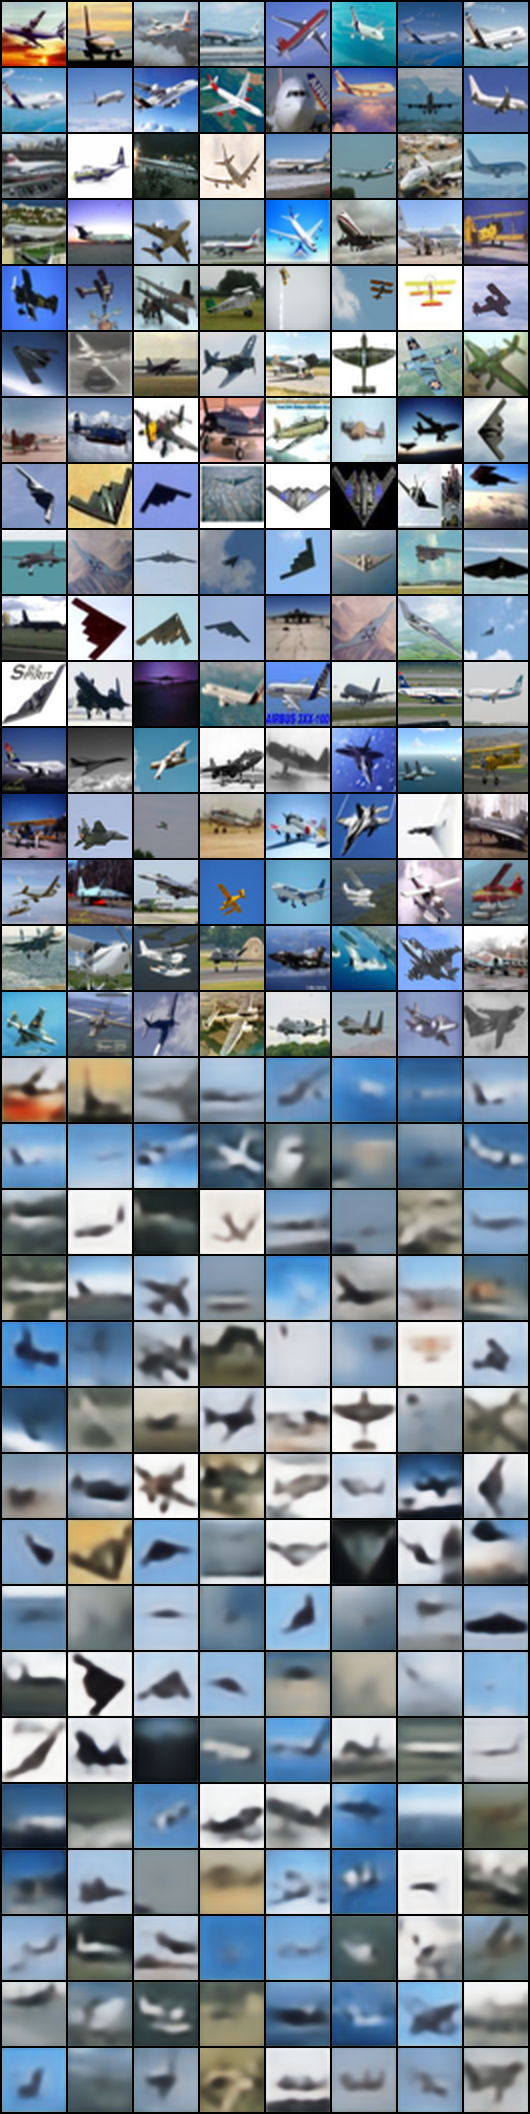
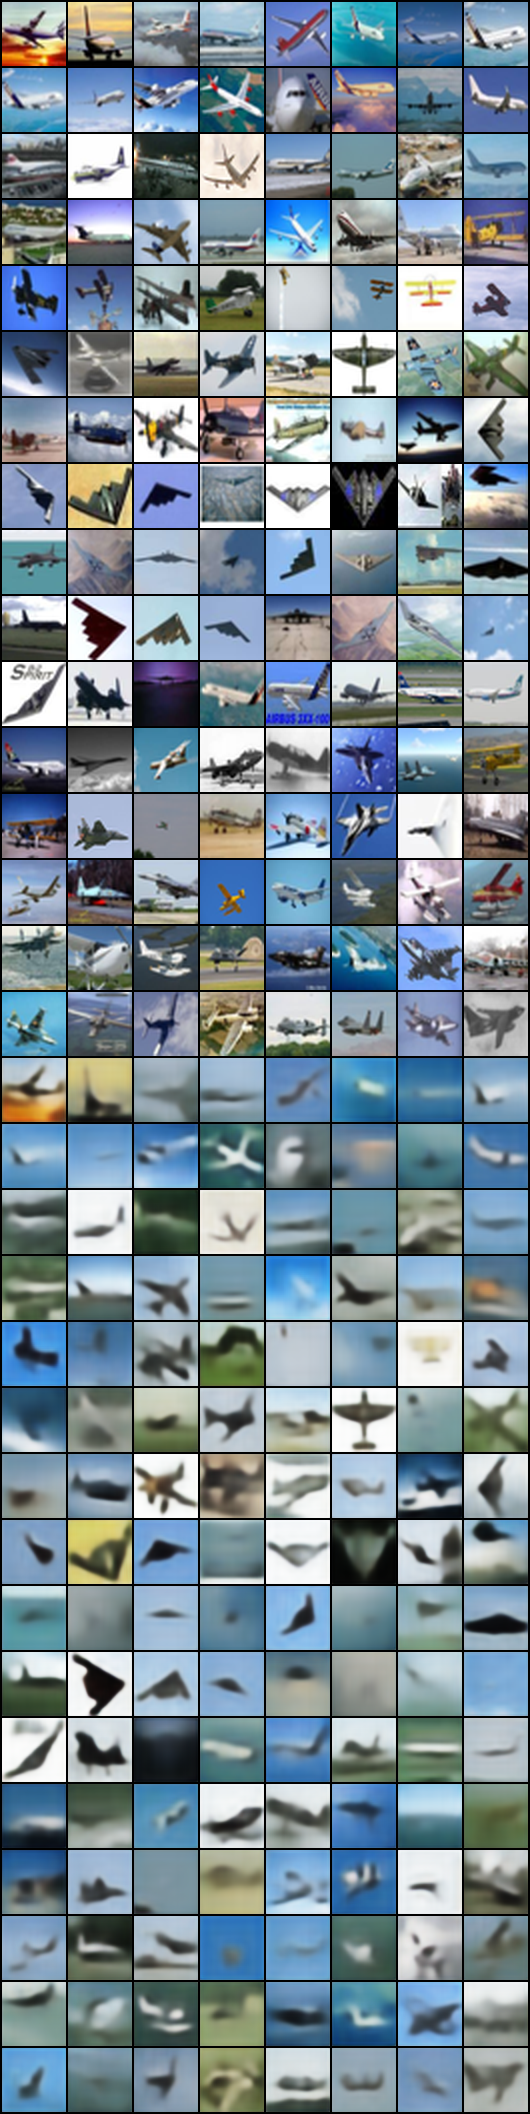
adding flow matching train

diff --git a/flow_matching/train_flow_matching.py b/flow_matching/train_flow_matching.py
@@ -1,0 +1,93 @@
+from utils import get_logger, set_seed
+from config import (
+    DiTTrainConfig,
+    FMConfig,
+    DataConfig,
+    DiTModelConfig,
+    DEVICE,
+    IMG_SIZE,
+)
+from dataset import ImgDataset
+import torch
+import torch.nn as nn
+import torch.nn.functional as F
+from torch.utils.data import DataLoader
+from dit import FlowMatching
+
+logger = get_logger()
+
+
+class TrainDit(nn.Module):
+    def __init__(self, fm_cfg: FMConfig = None):
+        super().__init__()
+
+        # check flow matching cofnig
+        self.fm_cfg: FMConfig = fm_cfg
+
+        if self.fm_cfg is None:
+            err = "Flow matching config is not provided."
+            logger.error(err)
+            raise ValueError(err)
+
+        self.data_cfg: DataConfig = self.fm_cfg.data_cfg
+        self.model_cfg: DiTModelConfig = self.fm_cfg.model_cfg
+        self.train_cfg: DiTTrainConfig = self.fm_cfg.train_cfg
+
+        # set random seed
+        set_seed(self.fm_cfg.train_cfg.seed)
+
+        # dataset and dataloader
+        train_dataset = ImgDataset(
+            data_dir=self.data_cfg.train_dir, data_config=self.data_cfg
+        )
+        test_dataset = ImgDataset(
+            data_dir=self.data_cfg.test_dir, data_config=self.data_cfg
+        )
+        self.train_dataloader = DataLoader(
+            dataset=train_dataset,
+            batch_size=self.train_cfg.batch_size,
+            num_workers=self.train_cfg.num_workers,
+            pin_memory=True,
+            shuffle=True,
+            persistent_workers=self.train_cfg.num_workers / 2,
+        )
+
+        self.test_dataloader = DataLoader(
+            dataset=test_dataset,
+            batch_size=self.train_cfg.batch_size,
+            num_workers=self.train_cfg.num_workers,
+            pin_memory=True,
+            shuffle=True,
+            persistent_workers=self.train_cfg.num_workers / 2,
+        )
+
+        # model
+        self.flow_net: FlowMatching = FlowMatching(
+            model_config=self.model_cfg, device=self.train_cfg.device
+        )
+
+        # loss function
+        self.loss_fn = F.mse_loss
+
+        # optimzer
+        self.optimizer = torch.optim.AdamW(
+            self.flow_net.parameters(),
+            lr=self.train_cfg.lr,
+        )
+
+        # scheduler
+        self.scheduler = torch.optim.lr_scheduler.CosineAnnealingWarmRestarts(
+            optizer=self.optimizer,
+            T_0=10,
+            T_mult=1,
+            eta_min=self.train_cfg.lr * 0.1,
+        )
+
+    def train(self):
+        pass
+
+    def eval(self):
+        pass
+
+    def save_checkpoint(self):
+        pass

diff --git a/flow_matching/dit.py b/flow_matching/dit.py
@@ -7,7 +7,7 @@ logger = get_logger()
 import torch
 import torch.nn as nn
 import torch.nn.functional as F
-from config import ModelConfig, DEVICE, IMG_SIZE
+from config import DiTModelConfig, DEVICE, IMG_SIZE
 
 
 class Img2Tokens(nn.Module):
@@ -51,8 +51,8 @@ class Img2Tokens(nn.Module):
         return img_tokens
 
 
-class FMNet(nn.Module):
-    def __init__(self, model_config: ModelConfig = ModelConfig(), device=DEVICE):
+class FlowMatching(nn.Module):
+    def __init__(self, model_config: DiTModelConfig = DiTModelConfig(), device=DEVICE):
         super().__init__()
         self.d_model: int = model_config.d_model  # model dim
         self.n_layer: int = model_config.n_layer  # layer of model
@@ -168,8 +168,8 @@ class FMNet(nn.Module):
 
 
 if __name__ == "__main__":
-    model_cfg = ModelConfig()
-    flow_matching_net = FMNet(model_config=model_cfg)
+    model_cfg = DiTModelConfig()
+    flow_matching_net = FlowMatching(model_config=model_cfg)
     flow_matching_net = flow_matching_net.to(device="cuda")
     x1 = torch.randn(size=[64, 32, model_cfg.d_model])
     x1 = x1.to(device="cuda")

diff --git a/flow_matching/config.py b/flow_matching/config.py
@@ -24,11 +24,7 @@ class DiTTrainConfig:
     lr: float = 1e-3
     device = DEVICE
     img_size: int = IMG_SIZE
-
     num_workers: int = 16
-    persist_worker: int = 1
-    pin_memory = DEVICE
-
     seed: int = 42
 
 
@@ -75,9 +71,9 @@ class DataConfig:
 
 
 @dataclass
-class ModelConfig:
-    d_model: int = 256
-    n_layer: int = 12
+class DiTModelConfig:
+    d_model: int = 4 * 8 * 8  # from VAE latent size
+    n_layer: int = 6
     n_head: int = 8
     total_steps: int = 24
     category_num: int = DataConfig.category_num
